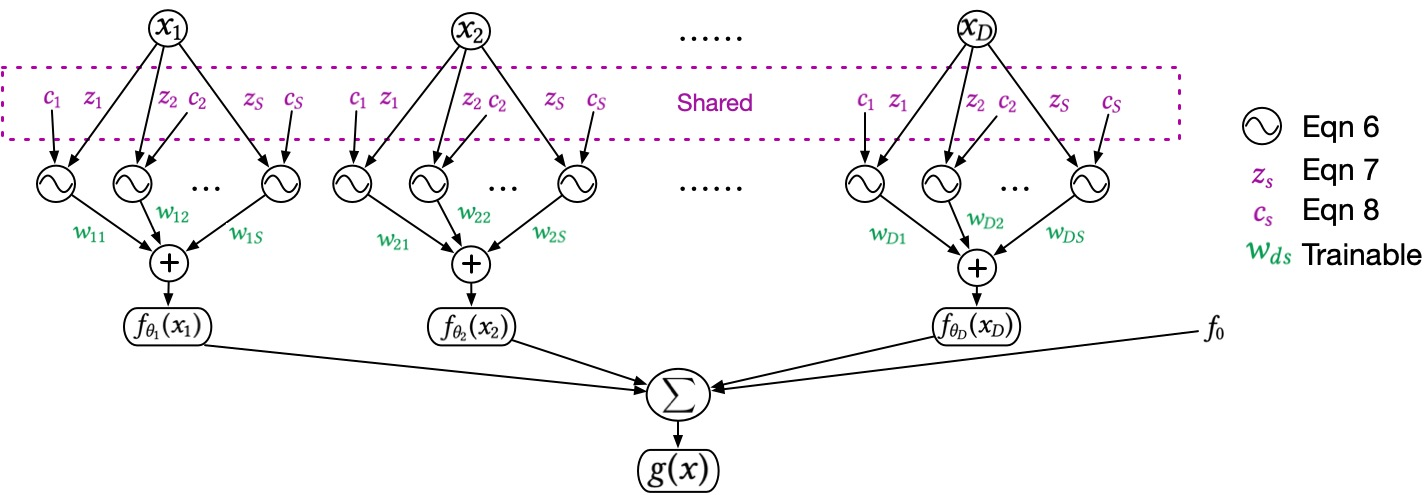
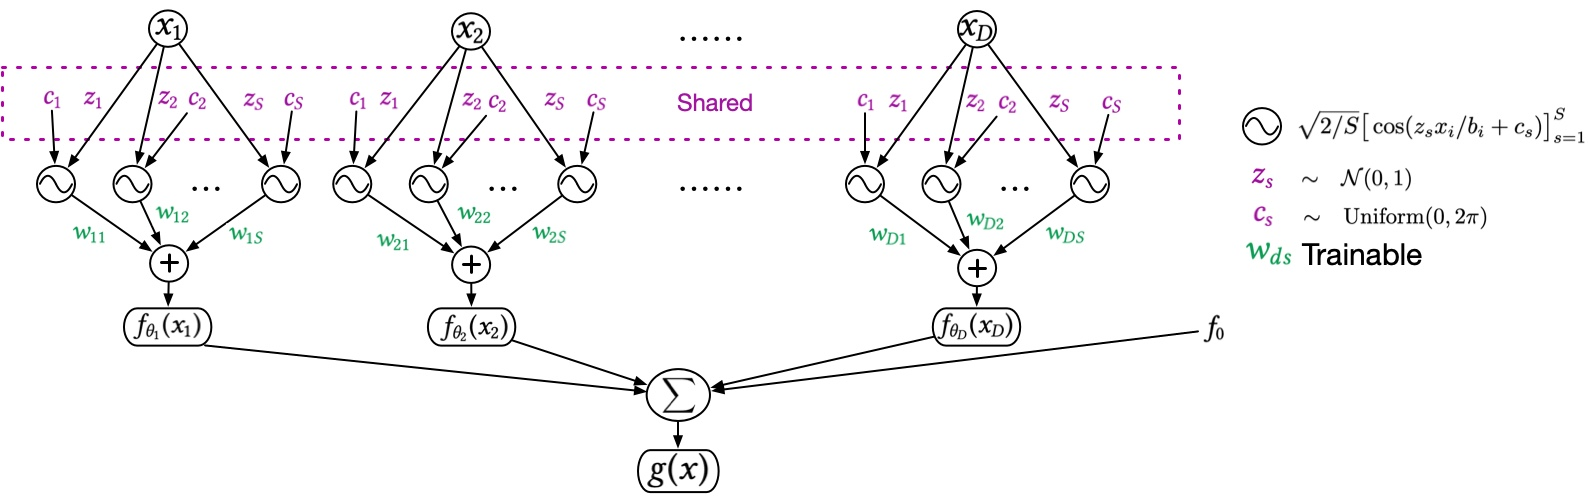
adding model

diff --git a/gpnam/trainer.py b/gpnam/trainer.py
@@ -1,0 +1,47 @@
+import numpy as np
+import torch
+import torch.nn as nn
+import torch.nn.functional as F
+from os.path import join as pjoin, exists as pexists
+import time
+
+class Trainer(nn.Module):
+    def __init__(self, model, experiment_name=None, optimizer=None, optimizer_params={}, lr=0.01, problem='classification', verbose=False,n_last_checkpoints=5):
+        super().__init__()
+        self.model = model
+        self.verbose = verbose
+        self.lr = lr
+
+        params = [p for p in self.model.parameters() if p.requires_grad]
+        self.opt = self.construct_opt(params, lr, params, optimizer_params)
+
+        self.step = 0
+        self.n_last_checkpoints = n_last_checkpoints
+        self.problem = problem
+
+        if problem == 'classification':
+            self.loss_function = (
+                lambda x, y: F.binary_cross_entropy_with_logits(x, y.float()) if x.ndim == 1
+                else F.cross_entropy(x, y)
+            )
+        elif problem == 'regression':
+            self.loss_function = (lambda y1, y2: F.mse_loss(y1.float(), y2.float()))
+        elif problem.startswith('pretrain'):  # Not used
+            self.loss_function = None
+        else:
+            raise NotImplementedError()
+
+        if experiment_name is None:
+            experiment_name = 'untitled_{}.{:0>2d}.{:0>2d}_{:0>2d}:{:0>2d}'.format(*time.gmtime()[:5])
+            if self.verbose:
+                print('using automatic experiment name: ' + experiment_name)
+
+        self.experiment_path = pjoin('logs/', experiment_name)
+
+
+    def construct_opt(self, optimizer, lr, params, optimizer_params):
+        if not optimizer:
+            return torch.optim.Adam(params, lr=lr, **optimizer_params)
+        if optimizer == "Adam":
+            return torch.optim.Adam(params, lr=lr, **optimizer_params)
+

diff --git a/gpnam/model.py b/gpnam/model.py
@@ -1,0 +1,35 @@
+import numpy as np
+import torch
+import torch.nn as nn
+import math
+from scipy.stats import norm
+
+class GPNAM(nn.module):
+    def __init__(self, input_dim, kernel_width=0.2, rff_num_feat=100):
+        """
+        Build GPNAM model.
+        :param kernel_width: kernel width of RFF approximation
+        :param rff_num_feat: RFF dimension
+        :param input_dim: the dimensions of input data
+        """
+        super(GPNAM, self).__init__()
+        self.kernel_width = kernel_width
+        self.rff_num_feat = rff_num_feat
+        self.input_dim = input_dim
+
+        self.c = 2*math.pi*torch.rand(rff_num_feat,input_dim)/rff_num_feat
+        self.Z = torch.from_numpy(norm.cdf([each/(rff_num_feat+1) for each in range(1, rff_num_feat+1)]))
+
+        self.c.requires_grad = False
+        self.Z.requires_grad = False
+
+        self.w = nn.linear(input_dim*rff_num_feat+1,1)
+
+    def forward(self, x):
+        rff_mapping = torch.sqrt(2/self.rff_num_feat)*torch.cos(torch.einsum('i,pq -> piq', self.Z, x)/self.kernel_width + self.c)
+        rff_mapping = rff_mapping.view(x.shape[0],-1)
+        pred = self.w(rff_mapping)
+
+        return pred
+
+

diff --git a/README.md b/README.md
@@ -1,12 +1,12 @@
 # GPNAM: Gaussian Process Neural Additive Models
 
 ![The framework of GPNAM](./imgs/framework.jpg)
-*The framework of GPNAM. `Equation 6,7 and 8` from the paper are predefined and do not require training. The only trainable parameter is `W` that maps to the output of each shape function.*
+*The framework of GPNAM. `$z_s, c_s$` and the sinusoidal function are predefined from the paper and do not require training. The only trainable parameter is `W` that maps to the output of each shape function.*
 
 This repository contains the source code for the paper Gaussian Process Neural Additive Models that appears at AAAI 2024. 
 
 Basically, the GPNAM constructs a Neural Additive Model (NAM) by a GP with Random Fourier Features as the shape function for each input feature, which leads to a convex optimization with a significant reduction in trainable parameters. 
-
+  
 ## Data sets preparation
 
 You can download the data sets locally:
@@ -15,3 +15,4 @@ python download_datasets.py LCD GMSC
 ```
 
 
+'norminv' requires Statistics and Machine Learning Toolbox.
